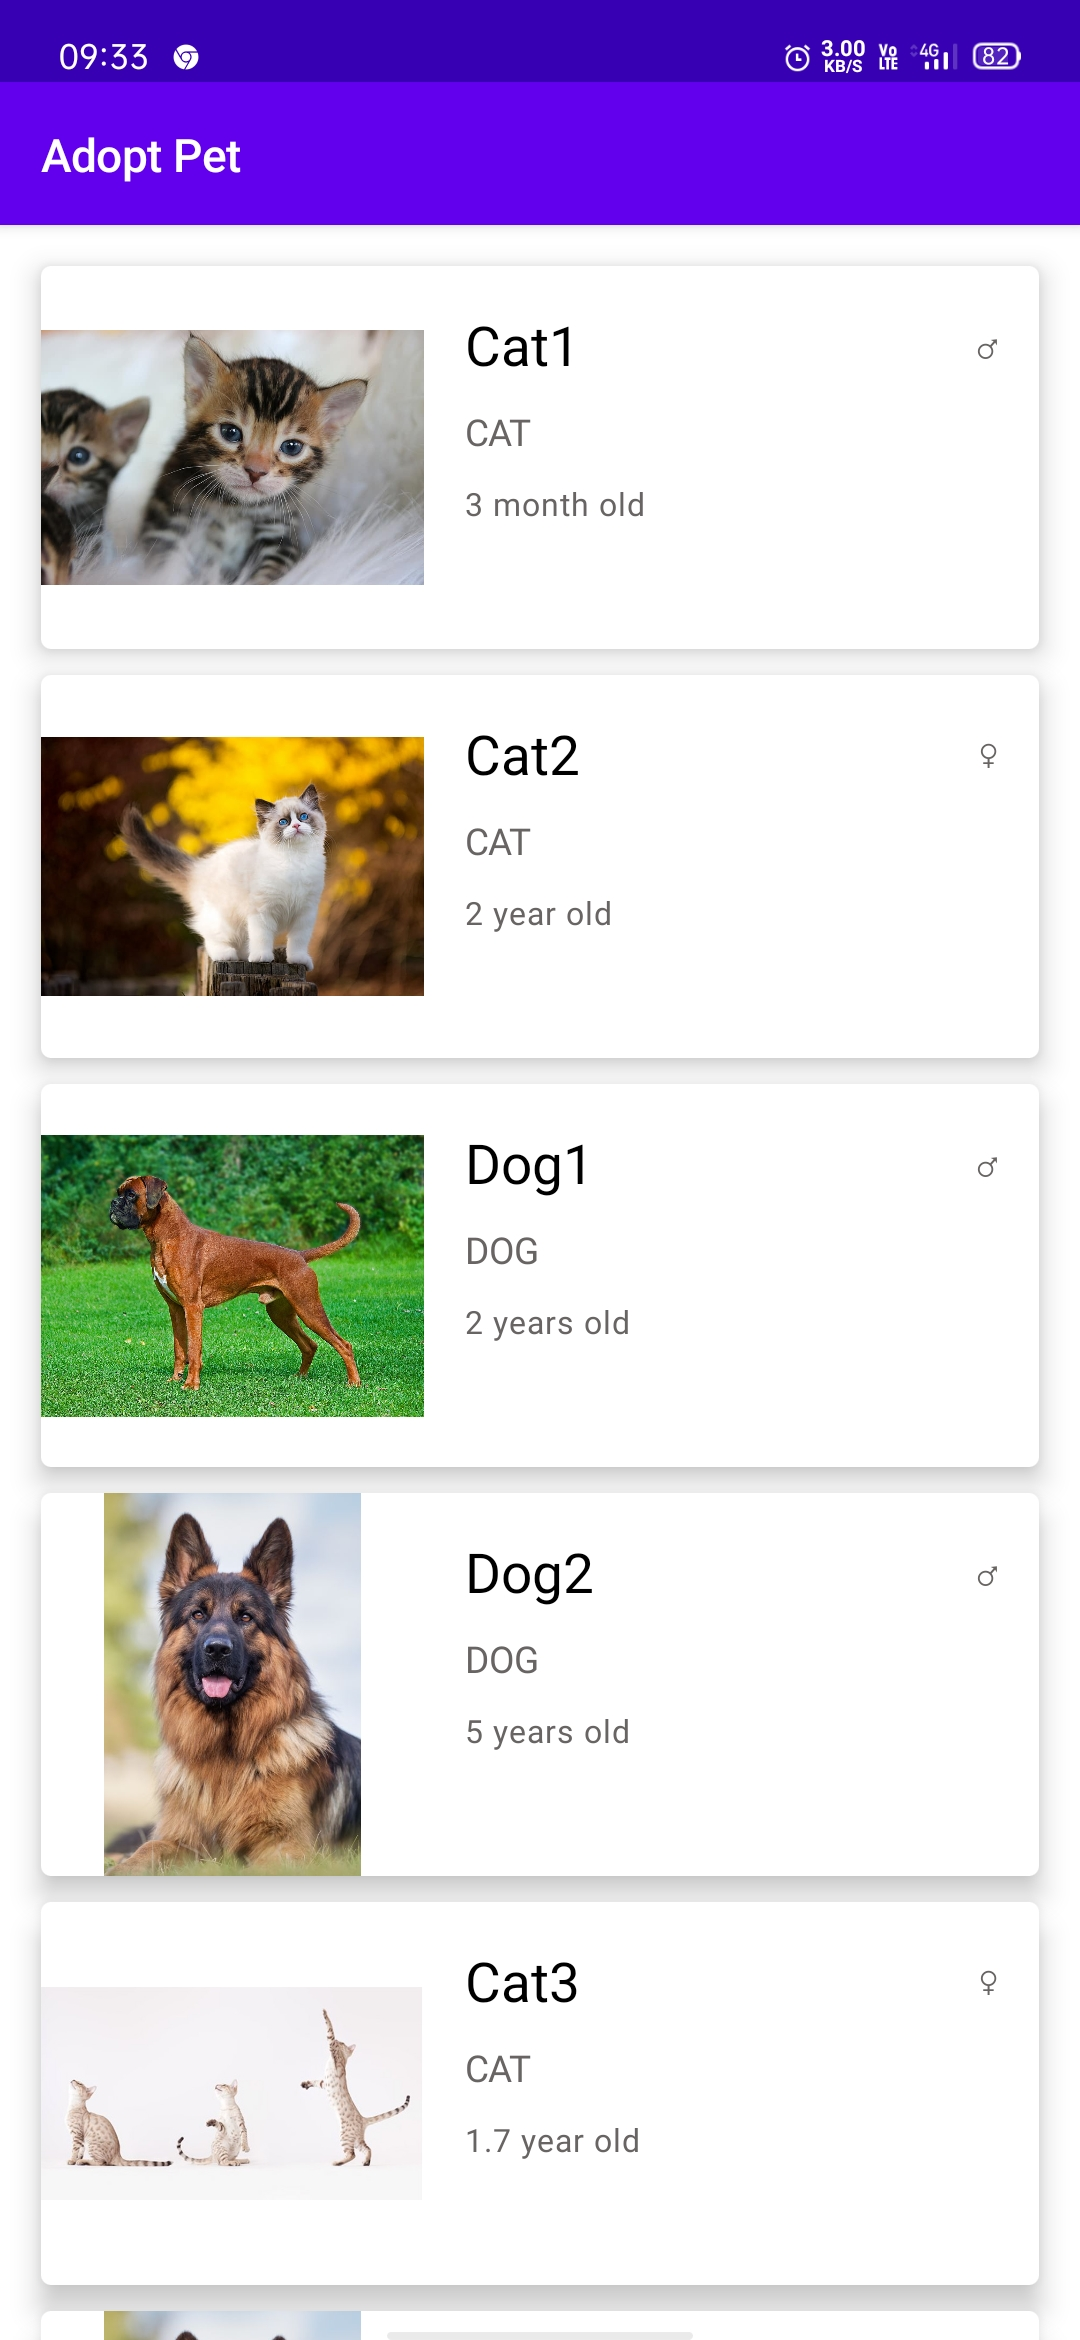
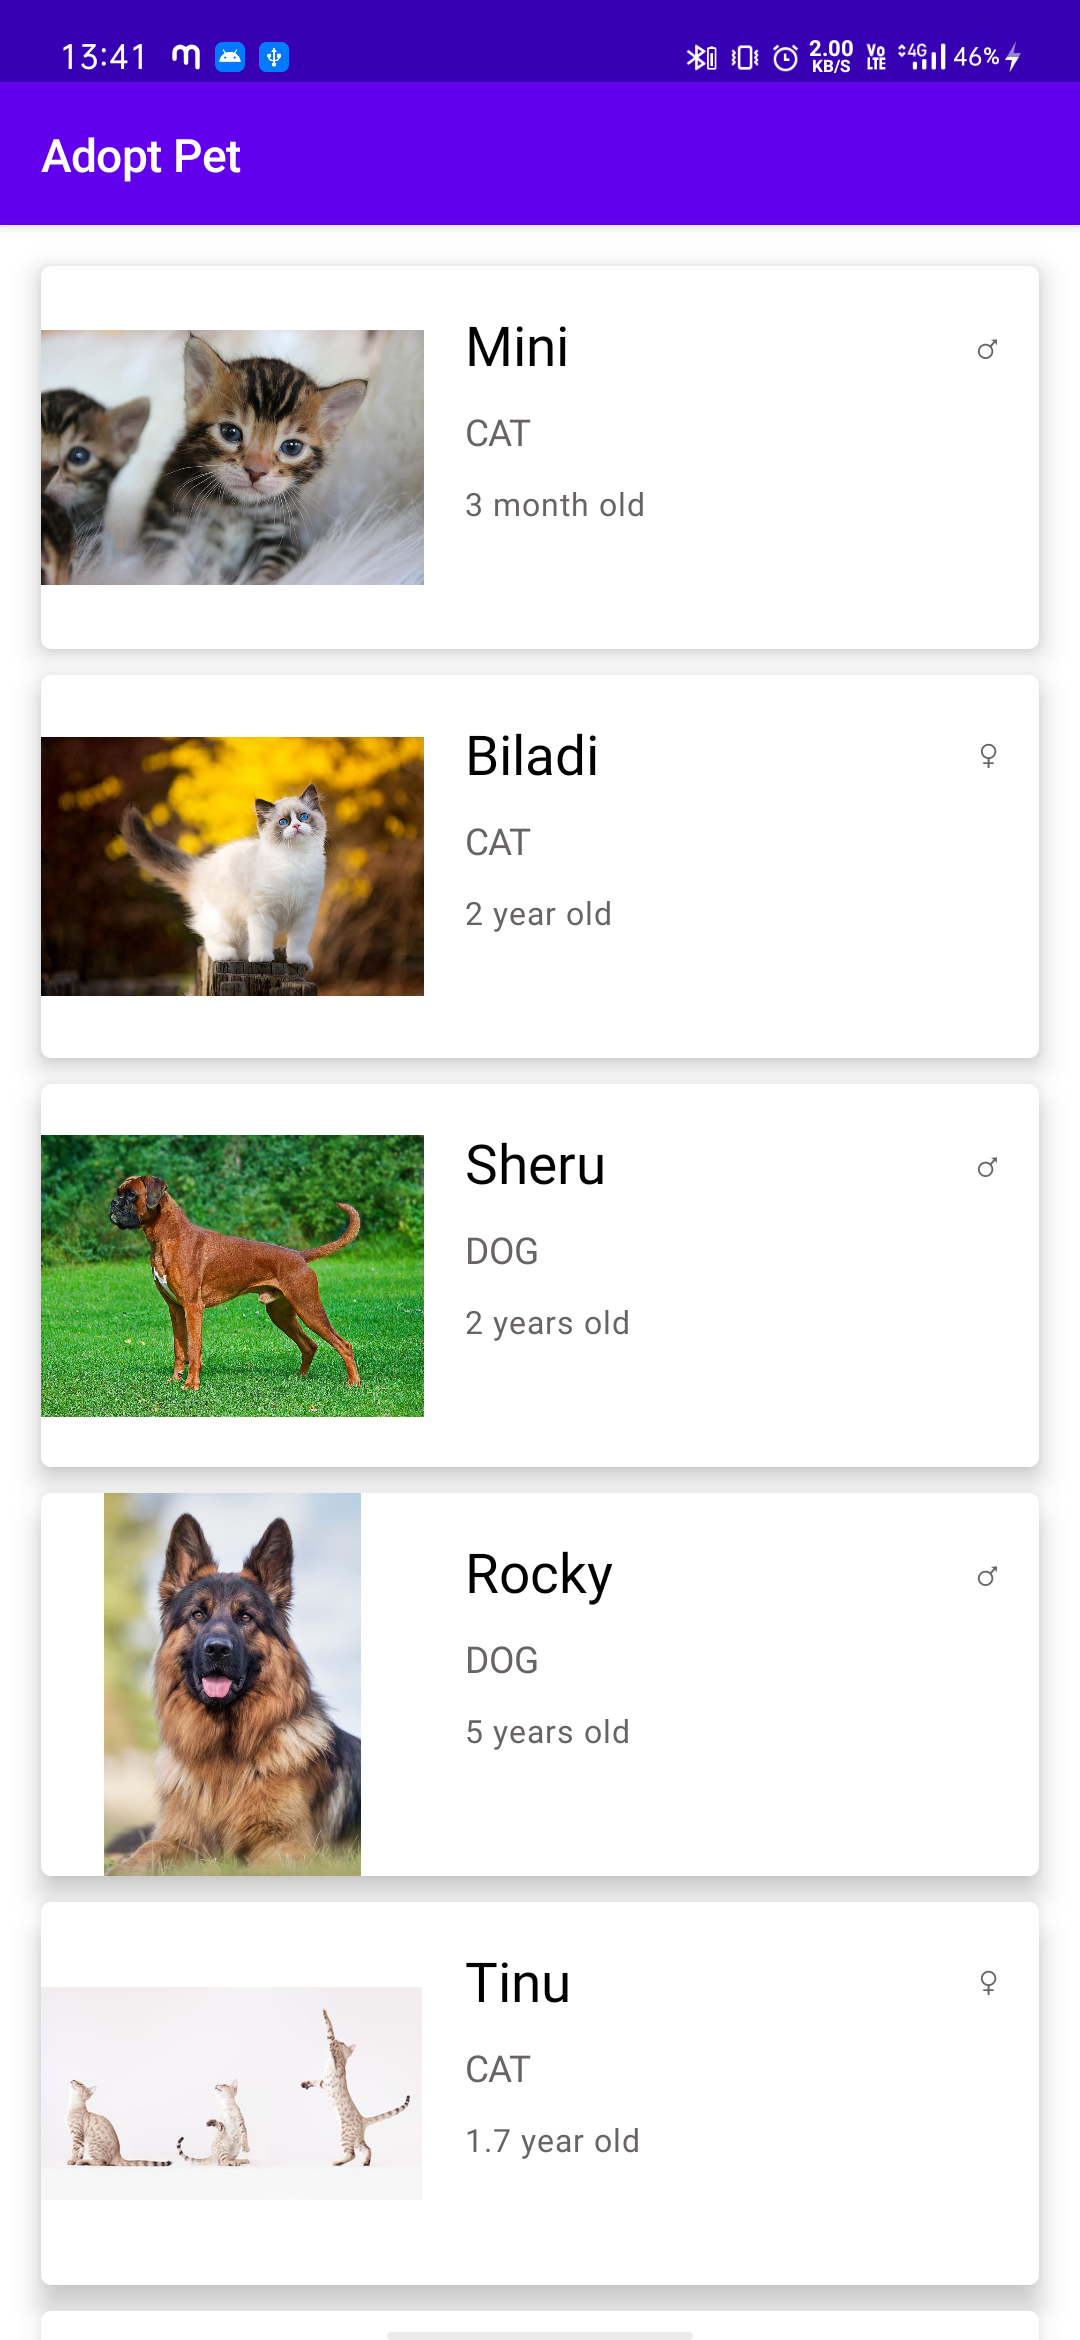
First Commit

diff --git a/app/src/main/java/com/example/androiddevchallenge/model/Pet.kt b/app/src/main/java/com/example/androiddevchallenge/model/Pet.kt
@@ -13,22 +13,22 @@ data class Pet(
 
 val petDataSource = listOf(
     Pet(
-        1, "Cat1", "♂", "CAT", "3 month old", R.drawable.cat1
+        1, "Mini", "♂", "CAT", "3 month old", R.drawable.cat1
     ),
     Pet(
-        2, "Cat2", "♀", "CAT", "2 year old", R.drawable.cat2
+        2, "Biladi", "♀", "CAT", "2 year old", R.drawable.cat2
     ),
     Pet(
-        3, "Dog1", "♂", "DOG","2 years old", R.drawable.dog1
+        3, "Sheru", "♂", "DOG","2 years old", R.drawable.dog1
     ),
     Pet(
-        4, "Dog2", "♂", "DOG","5 years old", R.drawable.dog2
+        4, "Rocky", "♂", "DOG","5 years old", R.drawable.dog2
     ),
     Pet(
-        5, "Cat3", "♀", "CAT", "1.7 year old", R.drawable.cat3
+        5, "Tinu", "♀", "CAT", "1.7 year old", R.drawable.cat3
     ),
     Pet(
-        6, "Dog3", "♀", "DOG","5 years old", R.drawable.dog2
+        6, "Rock", "♀", "DOG","5 years old", R.drawable.dog3
     ),
 )
 
